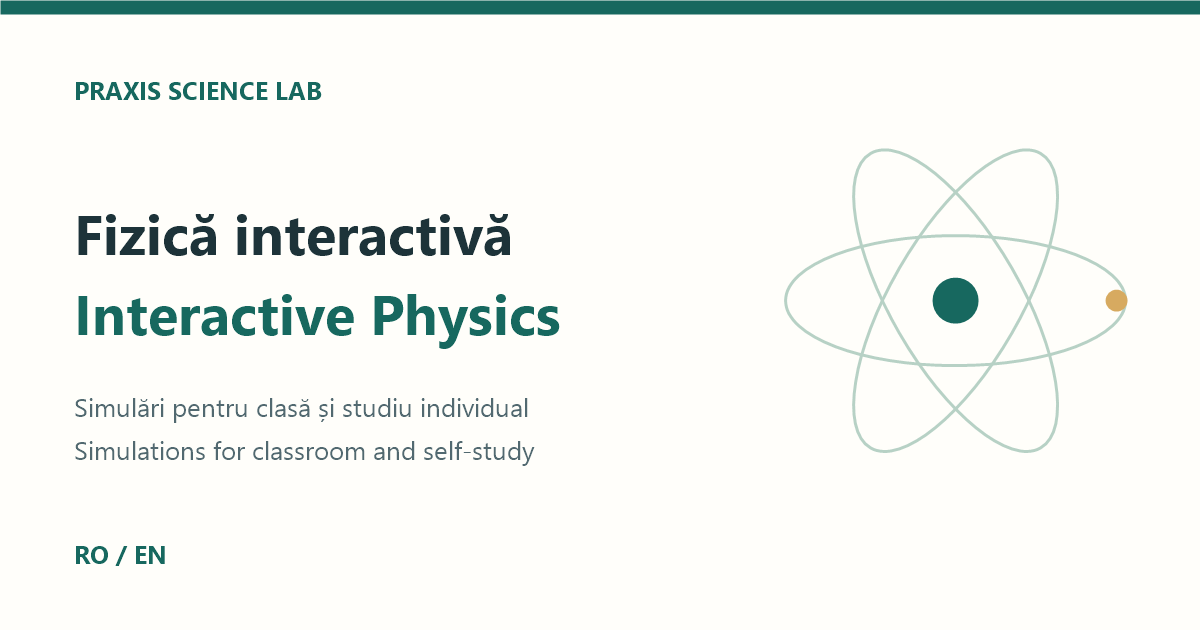
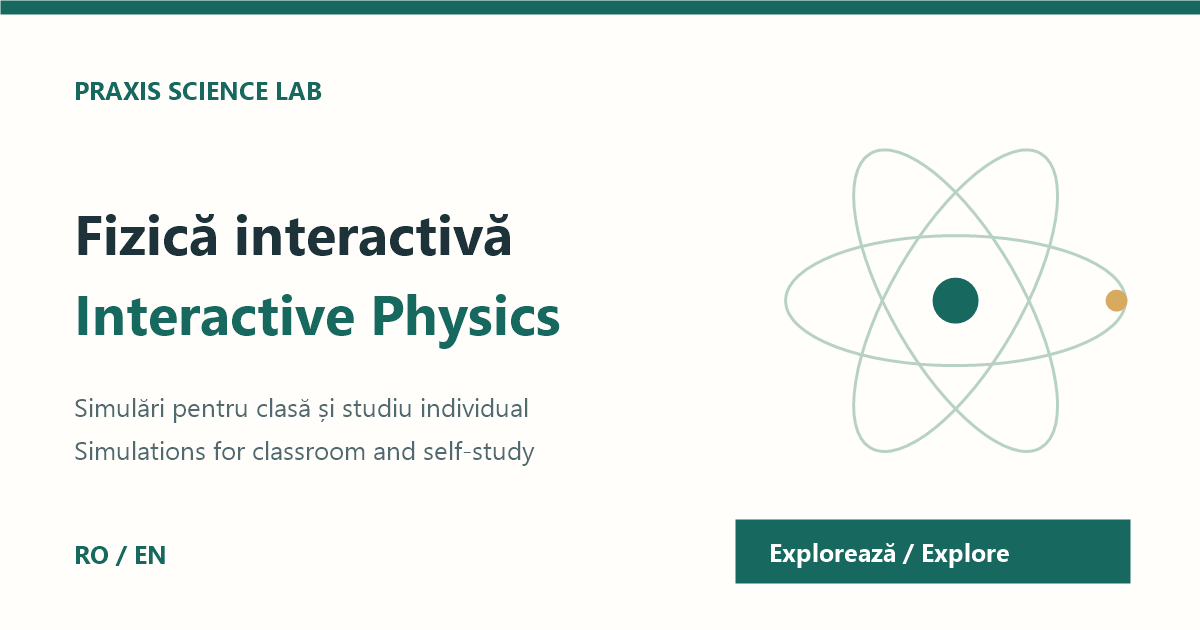
Shorten bilingual social metadata and add preview call to action

Changed region(s): [[0.5858, 0.8143, 0.9558, 0.9349]]

diff --git a/public/index.html b/public/index.html
@@ -1,18 +1,18 @@
[2 lines of base64/hex data omitted]
 <meta property="og:type" content="website">
 <meta property="og:url" content="https://praxis-physics-lab.vercel.app/">
 <meta property="og:site_name" content="Praxis Science Lab">
 <meta property="og:locale" content="ro_RO">
 <meta property="og:locale:alternate" content="en_GB">
-<meta property="og:image" content="https://praxis-physics-lab.vercel.app/assets/social-preview.png">
+<meta property="og:image" content="https://praxis-physics-lab.vercel.app/assets/social-preview.png?v=2">
 <meta property="og:image:type" content="image/png">
 <meta property="og:image:width" content="1200">
 <meta property="og:image:height" content="630">
 <meta property="og:image:alt" content="Praxis Science Lab — Fizică interactivă / Interactive Physics — RO / EN">
 <meta name="twitter:card" content="summary_large_image">
-<meta name="twitter:image" content="https://praxis-physics-lab.vercel.app/assets/social-preview.png">
+<meta name="twitter:image" content="https://praxis-physics-lab.vercel.app/assets/social-preview.png?v=2">
 <meta name="twitter:image:alt" content="Praxis Science Lab — Fizică interactivă / Interactive Physics — RO / EN">
-<meta property="og:title" content="Fizică interactivă / Interactive Physics · Praxis Science Lab"><meta name="twitter:title" content="Fizică interactivă / Interactive Physics · Praxis Science Lab"><link rel="stylesheet" href="./design-system/tokens.css"><link rel="stylesheet" href="./styles.css"><link rel="stylesheet" href="./board.css"><link rel="stylesheet" href="./design-system/components.css"><script src="./shared/i18n.js"></script><script src="./shared/sound.js"></script><link rel="stylesheet" href="./design-system/compact.css"><script src="./shared/content-types.bundle.js" defer></script><style id="praxis-link-colors">/* One link colour across the library, imported lessons and standalone exports. */
+<meta property="og:title" content="Fizică interactivă / Interactive Physics · Praxis"><meta name="twitter:title" content="Fizică interactivă / Interactive Physics · Praxis"><link rel="stylesheet" href="./design-system/tokens.css"><link rel="stylesheet" href="./styles.css"><link rel="stylesheet" href="./board.css"><link rel="stylesheet" href="./design-system/components.css"><script src="./shared/i18n.js"></script><script src="./shared/sound.js"></script><link rel="stylesheet" href="./design-system/compact.css"><script src="./shared/content-types.bundle.js" defer></script><style id="praxis-link-colors">/* One link colour across the library, imported lessons and standalone exports. */
 :root{--praxis-color-link:var(--praxis-color-primary,#17685f)}
 html body a[href],html body a[href]:visited,html body a[href]:hover,html body a[href]:active{color:var(--praxis-color-link)!important}
 /* Link controls use a light surface so their common text colour stays readable. */
